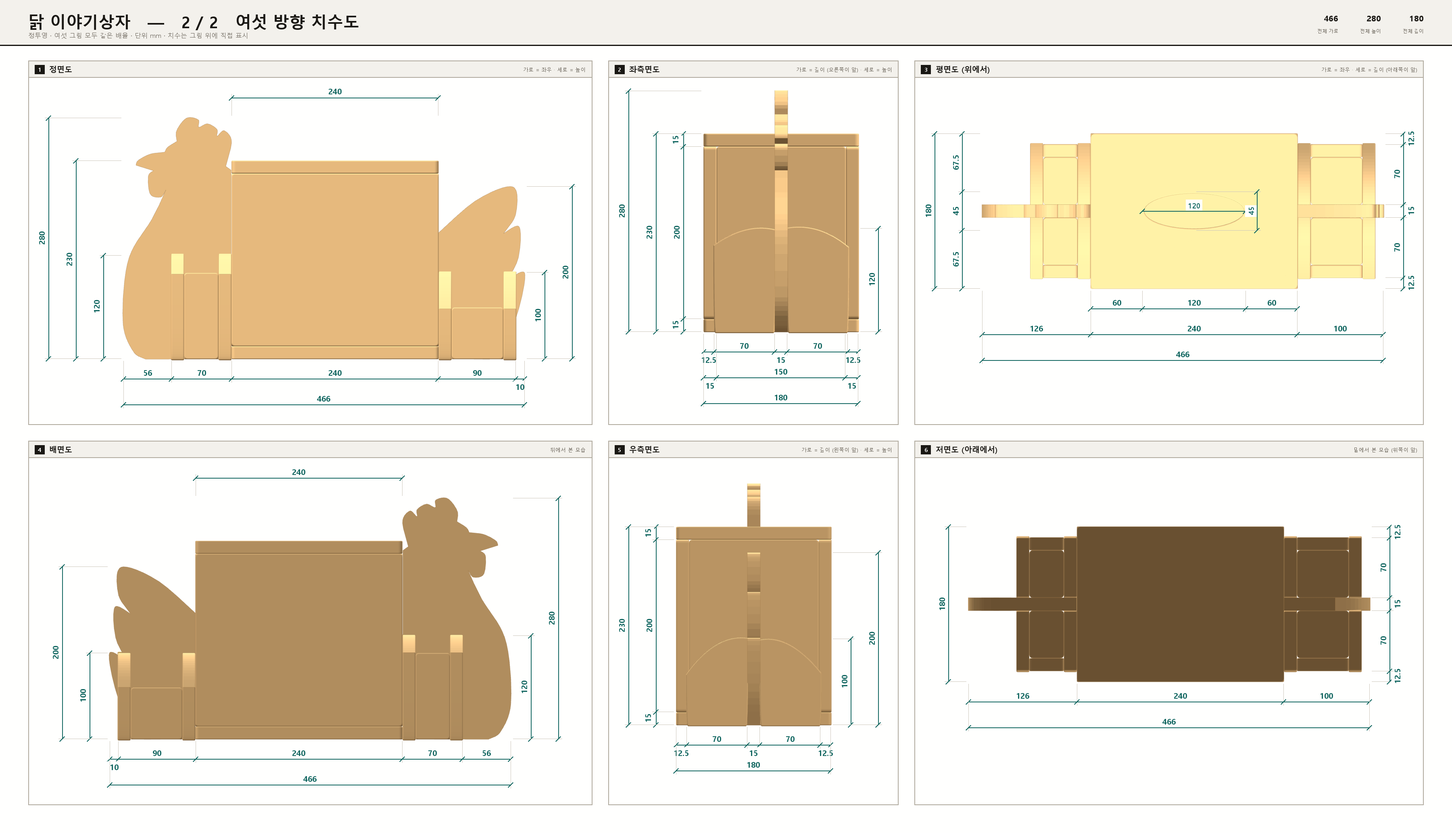
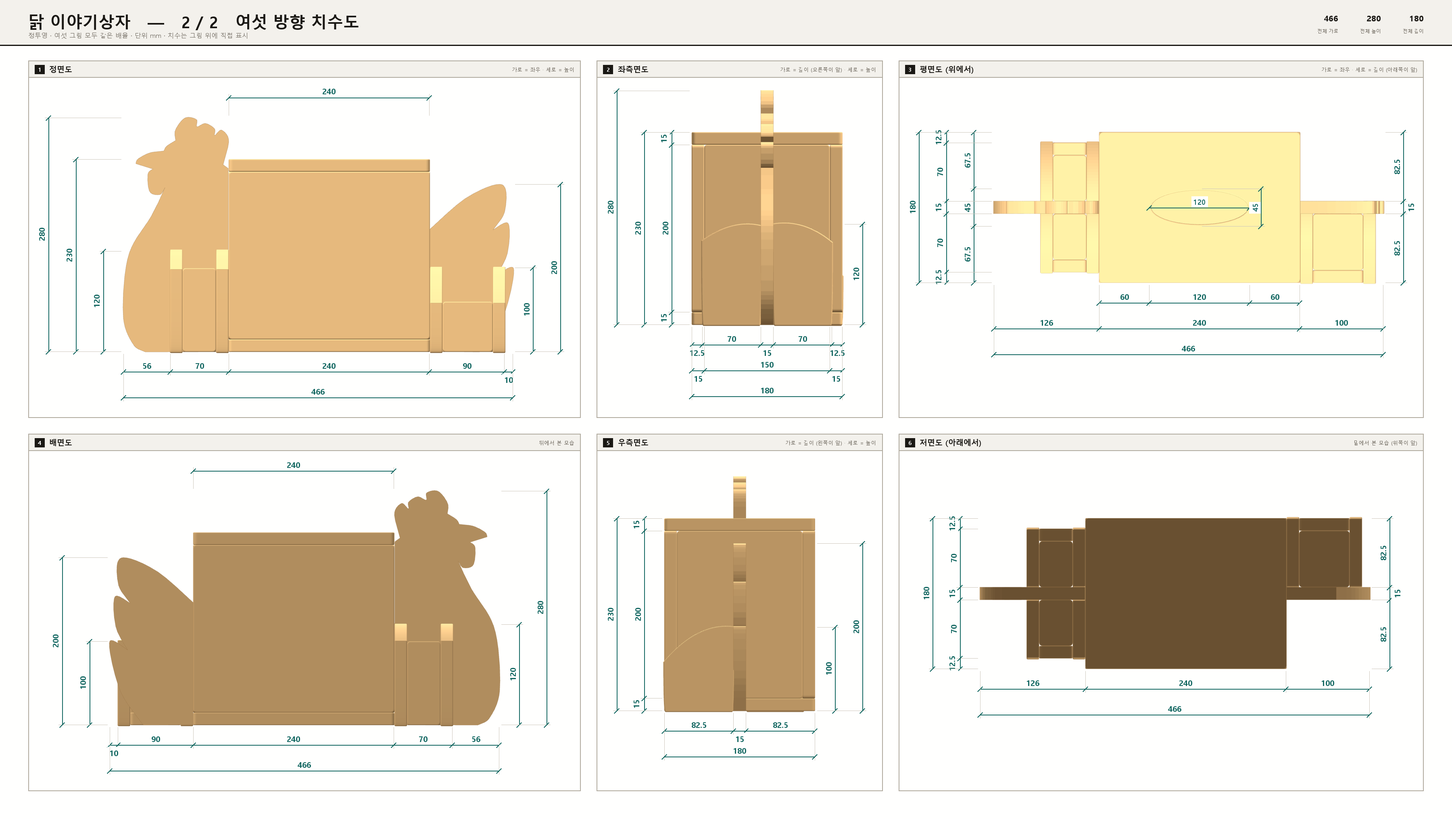
Add files via upload

diff --git a/도면보기.html b/도면보기.html
@@ -124,7 +124,7 @@ var SHEETS = [
   {k:"b1", t:"이야기상자 · 1장 조립도 · 부재도",  f:"도면_B_닭이야기상자.png",         tab:"이야기상자 1장"},
   {k:"b2", t:"이야기상자 · 2장 여섯 방향 치수도", f:"도면_B_닭이야기상자_6면치수.png", tab:"이야기상자 2장"}
 ];
-var DIM_DATA = {"a1":{"w":3600,"h":2398,"nums":[{"x":1716.0,"y":508.1,"r":0,"fs":17,"bw":40,"bh":24,"a":300.0,"b":0},{"x":1356.1,"y":384.0,"r":-90,"fs":17,"bw":27,"bh":38,"a":130.0,"b":-2},{"x":2472.0,"y":508.1,"r":0,"fs":17,"bw":40,"bh":24,"a":300.0,"b":0},{"x":2112.1,"y":384.0,"r":-90,"fs":17,"bw":27,"bh":38,"a":130.0,"b":-2},{"x":3020.0,"y":705.7,"r":0,"fs":17,"bw":40,"bh":24,"a":130.0,"b":-2},{"x":2868.1,"y":482.8,"r":-90,"fs":17,"bw":27,"bh":38,"a":225.0,"b":-2},{"x":1684.8,"y":1105.7,"r":0,"fs":17,"bw":40,"bh":24,"a":300.0,"b":-2},{"x":1356.1,"y":981.6,"r":-90,"fs":17,"bw":27,"bh":38,"a":130.0,"b":-2},{"x":2409.6,"y":1365.7,"r":0,"fs":17,"bw":40,"bh":24,"a":300.0,"b":0},{"x":2049.7,"y":1111.6,"r":-90,"fs":17,"bw":27,"bh":38,"a":225.0,"b":0},{"x":3165.6,"y":1144.1,"r":0,"fs":16,"bw":37,"bh":23,"a":300.0,"b":-2},{"x":2905.7,"y":1220.8,"r":-90,"fs":16,"bw":26,"bh":26,"a":112.5,"b":-1.5},{"x":3165.6,"y":925.7,"r":0,"fs":16,"bw":37,"bh":23,"a":300.0,"b":-2},{"x":2905.7,"y":1002.4,"r":-90,"fs":16,"bw":26,"bh":26,"a":112.5,"b":-1.5},{"x":2869.2,"y":1396.9,"r":0,"fs":17,"bw":30,"bh":24,"a":0.0,"b":1},{"x":3165.6,"y":1365.7,"r":0,"fs":17,"bw":40,"bh":24,"a":300.0,"b":-2},{"x":3462.0,"y":1396.9,"r":0,"fs":17,"bw":30,"bh":24,"a":0.0,"b":1},{"x":2802.3,"y":1330.0,"r":-90,"fs":17,"bw":27,"bh":28,"a":0.0,"b":1},{"x":2805.7,"y":1220.8,"r":-90,"fs":17,"bw":27,"bh":28,"a":112.5,"b":-1.5},{"x":2802.3,"y":1111.6,"r":-90,"fs":17,"bw":27,"bh":28,"a":0.0,"b":1.0},{"x":2805.7,"y":1002.4,"r":-90,"fs":17,"bw":27,"bh":28,"a":112.5,"b":-1.5},{"x":2802.3,"y":893.2,"r":-90,"fs":17,"bw":27,"bh":28,"a":0.0,"b":1.0},{"x":1680.6,"y":1802.5,"r":0,"fs":17,"bw":40,"bh":24,"a":296.0,"b":-2},{"x":1356.1,"y":1693.0,"r":-90,"fs":17,"bw":27,"bh":28,"a":108.5,"b":-1.5},{"x":2365.9,"y":1790.1,"r":0,"fs":17,"bw":40,"bh":24,"a":296.0,"b":-2},{"x":2041.3,"y":1686.8,"r":-90,"fs":17,"bw":27,"bh":28,"a":110.0,"b":-2},{"x":2857.8,"y":1771.3,"r":0,"fs":17,"bw":30,"bh":24,"a":110.0,"b":-2},{"x":2726.6,"y":1677.4,"r":-90,"fs":17,"bw":27,"bh":28,"a":108.5,"b":-2.5},{"x":1649.4,"y":2142.2,"r":0,"fs":17,"bw":40,"bh":24,"a":296.0,"b":-4},{"x":1356.1,"y":2048.3,"r":-90,"fs":17,"bw":27,"bh":28,"a":108.5,"b":-2.5},{"x":2089.3,"y":2027.8,"r":0,"fs":17,"bw":30,"bh":24,"a":60.0,"b":0},{"x":1975.5,"y":1991.1,"r":-90,"fs":17,"bw":27,"bh":28,"a":16.0,"b":0}],"texts":[{"x":70,"y":84,"fs":16,"an":"start","bg":"#F3F1EC","bw":775,"bh":24,"col":"ink2","dec":2,"tpl":"집성목 {T}T · 단위 mm · 부재 18 장 · 나무 쓰는 넓이 약 {0} m²   (집성목 한 판 2440 × 1220 = 2.98 m²)","v":[[0.542,-0.009]]},{"x":1356,"y":802,"fs":14,"an":"start","bw":156,"bh":21,"col":"ink2","tpl":"{0} × {1} × {T}T   1개","v":[[300.0,0],[130.0,-2]]},{"x":2112,"y":802,"fs":14,"an":"start","bw":156,"bh":21,"col":"ink2","tpl":"{0} × {1} × {T}T   1개","v":[[300.0,0],[130.0,-2]]},{"x":2868,"y":802,"fs":14,"an":"start","bw":156,"bh":21,"col":"ink2","tpl":"{0} × {1} × {T}T   2개","v":[[130.0,-2],[225.0,-2]]},{"x":1356,"y":1462,"fs":14,"an":"start","bw":156,"bh":21,"col":"ink2","tpl":"{0} × {1} × {T}T   1개","v":[[300.0,-2],[130.0,-2]]},{"x":2050,"y":1462,"fs":14,"an":"start","bw":156,"bh":21,"col":"ink2","tpl":"{0} × {1} × {T}T   1개","v":[[300.0,0],[225.0,0]]},{"x":2806,"y":1462,"fs":14,"an":"start","bw":156,"bh":21,"col":"ink2","tpl":"{0} × {1} × {T}T   1개","v":[[300.0,0],[225.0,0]]},{"x":1356,"y":1898,"fs":14,"an":"start","bw":148,"bh":21,"col":"ink2","tpl":"{0} × {1} × {T}T   2개","v":[[296.0,-2],[108.5,-1.5]]},{"x":2041,"y":1898,"fs":14,"an":"start","bw":148,"bh":21,"col":"ink2","tpl":"{0} × {1} × {T}T   2개","v":[[296.0,-2],[110.0,-2]]},{"x":2727,"y":1898,"fs":14,"an":"start","bw":140,"bh":21,"col":"ink2","tpl":"{0} × {1} × {T}T   4개","v":[[110.0,-2],[108.5,-2.5]]},{"x":1356,"y":2238,"fs":14,"an":"start","bw":148,"bh":21,"col":"ink2","tpl":"{0} × {1} × {T}T   2개","v":[[296.0,-4],[108.5,-2.5]]},{"x":1979,"y":2238,"fs":14,"an":"start","bw":140,"bh":21,"col":"ink2","tpl":"{0} × {1} × {T}T   1개","v":[[60.0,0],[16.0,0]]}]},"a2":{"w":3600,"h":2394,"nums":[{"x":770.8,"y":663.4,"r":0,"fs":18,"bw":40,"bh":26,"a":300.0,"b":-2.0},{"x":310.5,"y":808.0,"r":-90,"fs":18,"bw":28,"bh":28,"a":112.5,"b":-1.5},{"x":770.8,"y":290.5,"r":0,"fs":18,"bw":40,"bh":26,"a":300.0,"b":-2.0},{"x":310.5,"y":435.1,"r":-90,"fs":18,"bw":28,"bh":28,"a":112.5,"b":-1.5},{"x":264.6,"y":1055.5,"r":0,"fs":19,"bw":32,"bh":27,"a":0.0,"b":1.0},{"x":770.8,"y":1055.5,"r":0,"fs":19,"bw":43,"bh":27,"a":300.0,"b":-2.0},{"x":1276.9,"y":1055.5,"r":0,"fs":19,"bw":32,"bh":27,"a":0.0,"b":1.0},{"x":451.1,"y":1119.5,"r":0,"fs":19,"bw":43,"bh":27,"a":120.0,"b":0.0},{"x":770.8,"y":1119.5,"r":0,"fs":19,"bw":32,"bh":27,"a":60.0,"b":0.0},{"x":1090.4,"y":1119.5,"r":0,"fs":19,"bw":43,"bh":27,"a":120.0,"b":0.0},{"x":770.8,"y":1183.5,"r":0,"fs":19,"bw":43,"bh":27,"a":300.0,"b":0.0},{"x":172.4,"y":994.5,"r":-90,"fs":19,"bw":29,"bh":30,"a":0.0,"b":1.0},{"x":172.4,"y":808.0,"r":-90,"fs":19,"bw":29,"bh":30,"a":112.5,"b":-1.5},{"x":172.4,"y":621.6,"r":-90,"fs":19,"bw":29,"bh":30,"a":0.0,"b":1.0},{"x":172.4,"y":435.1,"r":-90,"fs":19,"bw":29,"bh":30,"a":112.5,"b":-1.5},{"x":172.4,"y":248.6,"r":-90,"fs":19,"bw":29,"bh":30,"a":0.0,"b":1.0},{"x":104.4,"y":621.6,"r":-90,"fs":19,"bw":29,"bh":41,"a":225.0,"b":0.0},{"x":1337.9,"y":928.8,"r":-90,"fs":19,"bw":29,"bh":30,"a":48.25,"b":0.25},{"x":1337.9,"y":808.0,"r":-90,"fs":19,"bw":29,"bh":30,"a":16.0,"b":0.0},{"x":1638.1,"y":1055.5,"r":0,"fs":19,"bw":32,"bh":27,"a":0.0,"b":1.0},{"x":1842.4,"y":1055.5,"r":0,"fs":19,"bw":43,"bh":27,"a":130.0,"b":-2.0},{"x":2046.6,"y":1055.5,"r":0,"fs":19,"bw":32,"bh":27,"a":0.0,"b":1.0},{"x":1842.4,"y":1119.5,"r":0,"fs":19,"bw":43,"bh":27,"a":130.0,"b":0.0},{"x":1869.0,"y":1183.5,"r":0,"fs":19,"bw":43,"bh":27,"a":130.0,"b":1.0},{"x":1545.9,"y":994.5,"r":-90,"fs":19,"bw":29,"bh":30,"a":0.0,"b":1.0},{"x":1545.9,"y":808.0,"r":-90,"fs":19,"bw":29,"bh":30,"a":112.5,"b":-1.5},{"x":1545.9,"y":621.6,"r":-90,"fs":19,"bw":29,"bh":30,"a":0.0,"b":1.0},{"x":1545.9,"y":435.1,"r":-90,"fs":19,"bw":29,"bh":30,"a":112.5,"b":-1.5},{"x":1545.9,"y":248.6,"r":-90,"fs":19,"bw":29,"bh":30,"a":0.0,"b":1.0},{"x":1477.9,"y":621.6,"r":-90,"fs":19,"bw":29,"bh":41,"a":225.0,"b":0.0},{"x":2160.9,"y":928.8,"r":-90,"fs":19,"bw":29,"bh":30,"a":48.25,"b":0.25},{"x":2160.9,"y":808.0,"r":-90,"fs":19,"bw":29,"bh":30,"a":16.0,"b":0.0},{"x":2647.6,"y":945.5,"r":0,"fs":19,"bw":43,"bh":27,"a":120.0,"b":0.0},{"x":2967.2,"y":945.5,"r":0,"fs":19,"bw":32,"bh":27,"a":60.0,"b":0.0},{"x":3286.9,"y":945.5,"r":0,"fs":19,"bw":43,"bh":27,"a":120.0,"b":0.0},{"x":2967.2,"y":1009.5,"r":0,"fs":19,"bw":43,"bh":27,"a":300.0,"b":0.0},{"x":2368.9,"y":422.7,"r":-90,"fs":19,"bw":29,"bh":30,"a":0.0,"b":1.0},{"x":2368.9,"y":626.9,"r":-90,"fs":19,"bw":29,"bh":41,"a":130.0,"b":-2.0},{"x":2368.9,"y":831.1,"r":-90,"fs":19,"bw":29,"bh":30,"a":0.0,"b":1.0},{"x":2300.9,"y":653.6,"r":-90,"fs":19,"bw":29,"bh":41,"a":130.0,"b":1.0},{"x":771.8,"y":2226.7,"r":0,"fs":19,"bw":43,"bh":27,"a":300.0,"b":0.0},{"x":173.4,"y":1792.7,"r":-90,"fs":19,"bw":29,"bh":41,"a":225.0,"b":0.0},{"x":2134.9,"y":2194.7,"r":0,"fs":19,"bw":32,"bh":27,"a":0.0,"b":1.0},{"x":1930.6,"y":2194.7,"r":0,"fs":19,"bw":43,"bh":27,"a":130.0,"b":-2.0},{"x":1726.4,"y":2194.7,"r":0,"fs":19,"bw":32,"bh":27,"a":0.0,"b":1.0},{"x":1904.0,"y":2258.7,"r":0,"fs":19,"bw":43,"bh":27,"a":130.0,"b":1.0},{"x":1580.9,"y":2133.6,"r":-90,"fs":19,"bw":29,"bh":30,"a":0.0,"b":1.0},{"x":1580.9,"y":1947.2,"r":-90,"fs":19,"bw":29,"bh":30,"a":112.5,"b":-1.5},{"x":1580.9,"y":1760.7,"r":-90,"fs":19,"bw":29,"bh":30,"a":0.0,"b":1.0},{"x":1580.9,"y":1574.2,"r":-90,"fs":19,"bw":29,"bh":30,"a":112.5,"b":-1.5},{"x":1580.9,"y":1387.8,"r":-90,"fs":19,"bw":29,"bh":30,"a":0.0,"b":1.0},{"x":1512.9,"y":1760.7,"r":-90,"fs":19,"bw":29,"bh":41,"a":225.0,"b":0.0},{"x":2967.2,"y":2084.6,"r":0,"fs":19,"bw":43,"bh":27,"a":300.0,"b":0.0},{"x":2368.9,"y":2023.6,"r":-90,"fs":19,"bw":29,"bh":30,"a":0.0,"b":1.0},{"x":2368.9,"y":1819.3,"r":-90,"fs":19,"bw":29,"bh":41,"a":130.0,"b":-2.0},{"x":2368.9,"y":1615.1,"r":-90,"fs":19,"bw":29,"bh":30,"a":0.0,"b":1.0},{"x":2300.9,"y":1819.3,"r":-90,"fs":19,"bw":29,"bh":41,"a":130.0,"b":0.0}],"texts":[]},"b1":{"w":3600,"h":2019,"nums":[{"x":1613.6,"y":614.5,"r":0,"fs":17,"bw":40,"bh":24,"a":240.0,"b":0},{"x":1356.1,"y":437.2,"r":-90,"fs":17,"bw":27,"bh":38,"a":180.0,"b":0},{"x":2164.9,"y":649.5,"r":0,"fs":17,"bw":40,"bh":24,"a":240.0,"b":0},{"x":1907.3,"y":454.7,"r":-90,"fs":17,"bw":27,"bh":38,"a":230.0,"b":-2},{"x":1613.6,"y":1190.9,"r":0,"fs":17,"bw":40,"bh":24,"a":240.0,"b":0},{"x":1356.1,"y":996.1,"r":-90,"fs":17,"bw":27,"bh":38,"a":230.0,"b":-2},{"x":2086.3,"y":1190.9,"r":0,"fs":17,"bw":40,"bh":24,"a":180.0,"b":-2},{"x":1907.3,"y":996.1,"r":-90,"fs":17,"bw":27,"bh":38,"a":230.0,"b":-2},{"x":1613.6,"y":1572.9,"r":0,"fs":16,"bw":37,"bh":23,"a":120.0,"b":0.0},{"x":1733.3,"y":1586.0,"r":-90,"fs":16,"bw":26,"bh":26,"a":45.0,"b":0.0},{"x":1456.4,"y":1763.3,"r":0,"fs":17,"bw":30,"bh":24,"a":60.0,"b":0.0},{"x":1613.6,"y":1763.3,"r":0,"fs":17,"bw":40,"bh":24,"a":120.0,"b":0.0},{"x":1770.9,"y":1763.3,"r":0,"fs":17,"bw":30,"bh":24,"a":60.0,"b":0.0},{"x":1356.1,"y":1684.3,"r":-90,"fs":17,"bw":27,"bh":42,"a":67.5,"b":0.0},{"x":1356.1,"y":1586.0,"r":-90,"fs":17,"bw":27,"bh":28,"a":45.0,"b":0.0},{"x":1356.1,"y":1487.8,"r":-90,"fs":17,"bw":27,"bh":42,"a":67.5,"b":0.0},{"x":2133.5,"y":1541.5,"r":0,"fs":16,"bw":37,"bh":23,"a":120.0,"b":0.0},{"x":2253.2,"y":1554.6,"r":-90,"fs":16,"bw":26,"bh":26,"a":45.0,"b":0.0},{"x":1992.0,"y":1700.4,"r":0,"fs":17,"bw":30,"bh":24,"a":57.0,"b":-1.0},{"x":2133.5,"y":1700.4,"r":0,"fs":17,"bw":40,"bh":24,"a":120.0,"b":0.0},{"x":2275.0,"y":1700.4,"r":0,"fs":17,"bw":30,"bh":24,"a":57.0,"b":-1.0},{"x":1907.3,"y":1637.1,"r":-90,"fs":17,"bw":27,"bh":42,"a":64.5,"b":-1.0},{"x":1907.3,"y":1554.6,"r":-90,"fs":17,"bw":27,"bh":28,"a":45.0,"b":0.0},{"x":1907.3,"y":1472.0,"r":-90,"fs":17,"bw":27,"bh":42,"a":64.5,"b":-1.0},{"x":2568.1,"y":509.7,"r":0,"fs":17,"bw":30,"bh":24,"a":70.0,"b":0},{"x":2459.1,"y":384.8,"r":-90,"fs":17,"bw":27,"bh":38,"a":120.0,"b":0},{"x":2649.3,"y":402.3,"r":-90,"fs":17,"bw":27,"bh":38,"a":100.0,"b":0},{"x":2796.2,"y":474.8,"r":0,"fs":17,"bw":30,"bh":24,"a":40.0,"b":0},{"x":2713.3,"y":367.3,"r":-90,"fs":17,"bw":27,"bh":38,"a":100.0,"b":0},{"x":2998.1,"y":396.1,"r":0,"fs":17,"bw":30,"bh":24,"a":40.0,"b":0},{"x":2915.2,"y":328.0,"r":-90,"fs":17,"bw":27,"bh":28,"a":70.0,"b":-1},{"x":2568.1,"y":942.4,"r":0,"fs":17,"bw":30,"bh":24,"a":70.0,"b":0},{"x":2459.1,"y":835.0,"r":-90,"fs":17,"bw":27,"bh":38,"a":100.0,"b":0},{"x":2649.3,"y":869.9,"r":-90,"fs":17,"bw":27,"bh":28,"a":60.0,"b":0},{"x":2813.7,"y":872.5,"r":0,"fs":17,"bw":30,"bh":24,"a":60.0,"b":0},{"x":2713.3,"y":800.0,"r":-90,"fs":17,"bw":27,"bh":28,"a":60.0,"b":0},{"x":3050.5,"y":863.8,"r":0,"fs":17,"bw":30,"bh":24,"a":60.0,"b":0},{"x":2950.2,"y":795.7,"r":-90,"fs":17,"bw":27,"bh":28,"a":70.0,"b":-1},{"x":2617.1,"y":1689.6,"r":0,"fs":17,"bw":40,"bh":24,"a":126.0,"b":0},{"x":2459.1,"y":1424.9,"r":-90,"fs":17,"bw":27,"bh":38,"a":280.0,"b":0},{"x":2946.5,"y":1549.8,"r":0,"fs":17,"bw":40,"bh":24,"a":100.0,"b":0},{"x":2811.2,"y":1355.0,"r":-90,"fs":17,"bw":27,"bh":38,"a":200.0,"b":0}],"texts":[{"x":70,"y":84,"fs":16,"an":"start","bg":"#F3F1EC","bw":775,"bh":24,"col":"ink2","dec":2,"tpl":"집성목 {T}T · 단위 mm · 부재 25 장 · 나무 쓰는 넓이 약 {0} m²   (집성목 한 판 2440 × 1220 = 2.98 m²)","v":[[0.46,-0.003]]},{"x":1356,"y":745,"fs":14,"an":"start","bw":156,"bh":21,"col":"ink2","tpl":"{0} × {1} × {T}T   1개","v":[[240.0,0],[180.0,0]]},{"x":1907,"y":745,"fs":14,"an":"start","bw":156,"bh":21,"col":"ink2","tpl":"{0} × {1} × {T}T   1개","v":[[240.0,0],[230.0,-2]]},{"x":1356,"y":1287,"fs":14,"an":"start","bw":156,"bh":21,"col":"ink2","tpl":"{0} × {1} × {T}T   1개","v":[[240.0,0],[230.0,-2]]},{"x":1907,"y":1287,"fs":14,"an":"start","bw":156,"bh":21,"col":"ink2","tpl":"{0} × {1} × {T}T   2개","v":[[180.0,-2],[230.0,-2]]},{"x":1356,"y":1859,"fs":14,"an":"start","bw":156,"bh":21,"col":"ink2","tpl":"{0} × {1} × {T}T   1개","v":[[240.0,0],[180.0,0]]},{"x":1907,"y":1859,"fs":14,"an":"start","bw":156,"bh":21,"col":"ink2","tpl":"{0} × {1} × {T}T   1개","v":[[234.0,-2],[174.0,-2]]},{"x":2459,"y":606,"fs":14,"an":"start","bw":148,"bh":21,"col":"ink2","tpl":"{0} × {1} × {T}T   4개","v":[[70.0,0],[120.0,0]]},{"x":2713,"y":606,"fs":14,"an":"start","bw":148,"bh":21,"col":"ink2","tpl":"{0} × {1} × {T}T   2개","v":[[40.0,0],[100.0,0]]},{"x":2915,"y":606,"fs":14,"an":"start","bw":140,"bh":21,"col":"ink2","tpl":"{0} × {1} × {T}T   2개","v":[[40.0,0],[70.0,-1]]},{"x":2459,"y":1038,"fs":14,"an":"start","bw":148,"bh":21,"col":"ink2","tpl":"{0} × {1} × {T}T   4개","v":[[70.0,0],[100.0,0]]},{"x":2713,"y":1038,"fs":14,"an":"start","bw":140,"bh":21,"col":"ink2","tpl":"{0} × {1} × {T}T   2개","v":[[60.0,0],[60.0,0]]},{"x":2950,"y":1038,"fs":14,"an":"start","bw":140,"bh":21,"col":"ink2","tpl":"{0} × {1} × {T}T   2개","v":[[60.0,0],[70.0,-1]]},{"x":2459,"y":1785,"fs":14,"an":"start","bw":156,"bh":21,"col":"ink2","tpl":"{0} × {1} × {T}T   1개","v":[[126.0,0],[280.0,0]]},{"x":2811,"y":1785,"fs":14,"an":"start","bw":156,"bh":21,"col":"ink2","tpl":"{0} × {1} × {T}T   1개","v":[[100.0,0],[200.0,0]]}]},"b2":{"w":3600,"h":2066,"nums":[{"x":365.7,"y":923.7,"r":0,"fs":19,"bw":32,"bh":27,"a":86.0,"b":-2.0},{"x":500.1,"y":923.7,"r":0,"fs":19,"bw":32,"bh":27,"a":40.0,"b":2.0},{"x":830.7,"y":923.7,"r":0,"fs":19,"bw":43,"bh":27,"a":240.0,"b":0.0},{"x":1182.7,"y":923.7,"r":0,"fs":19,"bw":32,"bh":27,"a":60.0,"b":2.0},{"x":1289.4,"y":958.6,"r":0,"fs":19,"bw":32,"bh":27,"a":40.0,"b":-2.0},{"x":803.0,"y":987.7,"r":0,"fs":19,"bw":43,"bh":27,"a":466.0,"b":0.0},{"x":830.7,"y":226.4,"r":0,"fs":19,"bw":43,"bh":27,"a":240.0,"b":0.0},{"x":240.4,"y":761.3,"r":-90,"fs":19,"bw":29,"bh":41,"a":120.0,"b":0},{"x":172.4,"y":644.0,"r":-90,"fs":19,"bw":29,"bh":41,"a":230.0,"b":0.0},{"x":104.4,"y":590.6,"r":-90,"fs":19,"bw":29,"bh":41,"a":280.0,"b":0},{"x":1334.4,"y":782.6,"r":-90,"fs":19,"bw":29,"bh":41,"a":100.0,"b":0},{"x":1402.4,"y":676.0,"r":-90,"fs":19,"bw":29,"bh":41,"a":200.0,"b":0},{"x":1757.4,"y":891.6,"r":0,"fs":19,"bw":48,"bh":27,"a":20.0,"b":-0.5},{"x":1845.3,"y":856.7,"r":0,"fs":19,"bw":32,"bh":27,"a":70.0,"b":0.0},{"x":1936.0,"y":891.6,"r":0,"fs":19,"bw":32,"bh":27,"a":0.0,"b":1.0},{"x":2026.7,"y":856.7,"r":0,"fs":19,"bw":32,"bh":27,"a":70.0,"b":0.0},{"x":2114.6,"y":891.6,"r":0,"fs":19,"bw":48,"bh":27,"a":20.0,"b":-0.5},{"x":1760.0,"y":955.6,"r":0,"fs":19,"bw":32,"bh":27,"a":0.0,"b":1.0},{"x":1936.0,"y":920.7,"r":0,"fs":19,"bw":43,"bh":27,"a":180.0,"b":-2.0},{"x":2112.0,"y":955.6,"r":0,"fs":19,"bw":32,"bh":27,"a":0.0,"b":1.0},{"x":1936.0,"y":984.7,"r":0,"fs":19,"bw":43,"bh":27,"a":180.0,"b":0.0},{"x":1674.6,"y":806.3,"r":-90,"fs":19,"bw":29,"bh":30,"a":0.0,"b":1.0},{"x":1678.4,"y":577.0,"r":-90,"fs":19,"bw":29,"bh":41,"a":230.0,"b":-2.0},{"x":1674.6,"y":347.7,"r":-90,"fs":19,"bw":29,"bh":30,"a":0.0,"b":1.0},{"x":1610.4,"y":577.0,"r":-90,"fs":19,"bw":29,"bh":41,"a":230.0,"b":0.0},{"x":1542.4,"y":523.6,"r":-90,"fs":19,"bw":29,"bh":41,"a":280.0,"b":0},{"x":2162.4,"y":694.3,"r":-90,"fs":19,"bw":29,"bh":41,"a":120.0,"b":0},{"x":2960.7,"y":508.9,"r":0,"fs":18,"bw":40,"bh":26,"a":120.0,"b":0.0},{"x":3101.9,"y":523.6,"r":-90,"fs":18,"bw":28,"bh":28,"a":45.0,"b":0.0},{"x":2768.7,"y":750.0,"r":0,"fs":19,"bw":32,"bh":27,"a":60.0,"b":0.0},{"x":2960.7,"y":750.0,"r":0,"fs":19,"bw":43,"bh":27,"a":120.0,"b":0.0},{"x":3152.7,"y":750.0,"r":0,"fs":19,"bw":32,"bh":27,"a":60.0,"b":0.0},{"x":2570.4,"y":814.0,"r":0,"fs":19,"bw":43,"bh":27,"a":126.0,"b":0},{"x":2960.7,"y":814.0,"r":0,"fs":19,"bw":43,"bh":27,"a":240.0,"b":0.0},{"x":3323.3,"y":814.0,"r":0,"fs":19,"bw":43,"bh":27,"a":100.0,"b":0.0},{"x":2933.0,"y":878.0,"r":0,"fs":19,"bw":43,"bh":27,"a":466.0,"b":0.0},{"x":2370.4,"y":403.6,"r":-90,"fs":19,"bw":29,"bh":46,"a":67.5,"b":0.0},{"x":2370.4,"y":523.6,"r":-90,"fs":19,"bw":29,"bh":30,"a":45.0,"b":0.0},{"x":2370.4,"y":643.6,"r":-90,"fs":19,"bw":29,"bh":46,"a":67.5,"b":0.0},{"x":2302.4,"y":523.6,"r":-90,"fs":19,"bw":29,"bh":41,"a":180.0,"b":0.0},{"x":3499.4,"y":345.0,"r":-90,"fs":19,"bw":29,"bh":46,"a":20.0,"b":-0.5},{"x":3464.4,"y":433.0,"r":-90,"fs":19,"bw":29,"bh":30,"a":70.0,"b":0.0},{"x":3499.4,"y":523.6,"r":-90,"fs":19,"bw":29,"bh":30,"a":0.0,"b":1.0},{"x":3464.4,"y":614.3,"r":-90,"fs":19,"bw":29,"bh":30,"a":70.0,"b":0.0},{"x":3499.4,"y":702.3,"r":-90,"fs":19,"bw":29,"bh":46,"a":20.0,"b":-0.5},{"x":1206.3,"y":1867.0,"r":0,"fs":19,"bw":32,"bh":27,"a":86.0,"b":-2.0},{"x":1071.9,"y":1867.0,"r":0,"fs":19,"bw":32,"bh":27,"a":40.0,"b":2.0},{"x":741.3,"y":1867.0,"r":0,"fs":19,"bw":43,"bh":27,"a":240.0,"b":0.0},{"x":389.3,"y":1867.0,"r":0,"fs":19,"bw":32,"bh":27,"a":60.0,"b":2.0},{"x":282.7,"y":1901.9,"r":0,"fs":19,"bw":32,"bh":27,"a":40.0,"b":-2.0},{"x":769.0,"y":1931.0,"r":0,"fs":19,"bw":43,"bh":27,"a":466.0,"b":0.0},{"x":741.3,"y":1169.7,"r":0,"fs":19,"bw":43,"bh":27,"a":240.0,"b":0.0},{"x":206.4,"y":1725.9,"r":-90,"fs":19,"bw":29,"bh":41,"a":100.0,"b":0},{"x":138.4,"y":1619.2,"r":-90,"fs":19,"bw":29,"bh":41,"a":200.0,"b":0},{"x":1300.4,"y":1704.5,"r":-90,"fs":19,"bw":29,"bh":41,"a":120.0,"b":0},{"x":1368.4,"y":1533.9,"r":-90,"fs":19,"bw":29,"bh":41,"a":280.0,"b":0},{"x":2046.6,"y":1866.9,"r":0,"fs":19,"bw":48,"bh":27,"a":20.0,"b":-0.5},{"x":1958.7,"y":1832.0,"r":0,"fs":19,"bw":32,"bh":27,"a":70.0,"b":0.0},{"x":1868.0,"y":1866.9,"r":0,"fs":19,"bw":32,"bh":27,"a":0.0,"b":1.0},{"x":1777.3,"y":1832.0,"r":0,"fs":19,"bw":32,"bh":27,"a":70.0,"b":0.0},{"x":1689.4,"y":1866.9,"r":0,"fs":19,"bw":48,"bh":27,"a":20.0,"b":-0.5},{"x":1868.0,"y":1896.0,"r":0,"fs":19,"bw":43,"bh":27,"a":180.0,"b":0.0},{"x":1606.6,"y":1781.5,"r":-90,"fs":19,"bw":29,"bh":30,"a":0.0,"b":1.0},{"x":1610.4,"y":1552.2,"r":-90,"fs":19,"bw":29,"bh":41,"a":230.0,"b":-2.0},{"x":1606.6,"y":1322.9,"r":-90,"fs":19,"bw":29,"bh":30,"a":0.0,"b":1.0},{"x":1542.4,"y":1552.2,"r":-90,"fs":19,"bw":29,"bh":41,"a":230.0,"b":0.0},{"x":2094.4,"y":1690.9,"r":-90,"fs":19,"bw":29,"bh":41,"a":100.0,"b":0},{"x":2162.4,"y":1584.2,"r":-90,"fs":19,"bw":29,"bh":41,"a":200.0,"b":0},{"x":2536.4,"y":1725.3,"r":0,"fs":19,"bw":43,"bh":27,"a":126.0,"b":0},{"x":2926.7,"y":1725.3,"r":0,"fs":19,"bw":43,"bh":27,"a":240.0,"b":0.0},{"x":3289.3,"y":1725.3,"r":0,"fs":19,"bw":43,"bh":27,"a":100.0,"b":0.0},{"x":2899.0,"y":1789.3,"r":0,"fs":19,"bw":43,"bh":27,"a":466.0,"b":0.0},{"x":2336.4,"y":1498.9,"r":-90,"fs":19,"bw":29,"bh":41,"a":180.0,"b":0.0},{"x":3465.4,"y":1677.5,"r":-90,"fs":19,"bw":29,"bh":46,"a":20.0,"b":-0.5},{"x":3430.4,"y":1589.6,"r":-90,"fs":19,"bw":29,"bh":30,"a":70.0,"b":0.0},{"x":3465.4,"y":1498.9,"r":-90,"fs":19,"bw":29,"bh":30,"a":0.0,"b":1.0},{"x":3430.4,"y":1408.2,"r":-90,"fs":19,"bw":29,"bh":30,"a":70.0,"b":0.0},{"x":3465.4,"y":1320.3,"r":-90,"fs":19,"bw":29,"bh":46,"a":20.0,"b":-0.5}],"texts":[]}};
+var DIM_DATA = {"a1":{"w":3600,"h":2398,"nums":[{"x":1716.0,"y":508.1,"r":0,"fs":17,"bw":40,"bh":24,"a":300.0,"b":0},{"x":1356.1,"y":384.0,"r":-90,"fs":17,"bw":27,"bh":38,"a":130.0,"b":-2},{"x":2472.0,"y":508.1,"r":0,"fs":17,"bw":40,"bh":24,"a":300.0,"b":0},{"x":2112.1,"y":384.0,"r":-90,"fs":17,"bw":27,"bh":38,"a":130.0,"b":-2},{"x":3020.0,"y":705.7,"r":0,"fs":17,"bw":40,"bh":24,"a":130.0,"b":-2},{"x":2868.1,"y":482.8,"r":-90,"fs":17,"bw":27,"bh":38,"a":225.0,"b":-2},{"x":1684.8,"y":1105.7,"r":0,"fs":17,"bw":40,"bh":24,"a":300.0,"b":-2},{"x":1356.1,"y":981.6,"r":-90,"fs":17,"bw":27,"bh":38,"a":130.0,"b":-2},{"x":2409.6,"y":1365.7,"r":0,"fs":17,"bw":40,"bh":24,"a":300.0,"b":0},{"x":2049.7,"y":1111.6,"r":-90,"fs":17,"bw":27,"bh":38,"a":225.0,"b":0},{"x":3165.6,"y":1144.1,"r":0,"fs":16,"bw":37,"bh":23,"a":300.0,"b":-2},{"x":2905.7,"y":1220.8,"r":-90,"fs":16,"bw":26,"bh":26,"a":112.5,"b":-1.5},{"x":3165.6,"y":925.7,"r":0,"fs":16,"bw":37,"bh":23,"a":300.0,"b":-2},{"x":2905.7,"y":1002.4,"r":-90,"fs":16,"bw":26,"bh":26,"a":112.5,"b":-1.5},{"x":2869.2,"y":1396.9,"r":0,"fs":17,"bw":30,"bh":24,"a":0.0,"b":1},{"x":3165.6,"y":1365.7,"r":0,"fs":17,"bw":40,"bh":24,"a":300.0,"b":-2},{"x":3462.0,"y":1396.9,"r":0,"fs":17,"bw":30,"bh":24,"a":0.0,"b":1},{"x":2802.3,"y":1330.0,"r":-90,"fs":17,"bw":27,"bh":28,"a":0.0,"b":1},{"x":2805.7,"y":1220.8,"r":-90,"fs":17,"bw":27,"bh":28,"a":112.5,"b":-1.5},{"x":2802.3,"y":1111.6,"r":-90,"fs":17,"bw":27,"bh":28,"a":0.0,"b":1.0},{"x":2805.7,"y":1002.4,"r":-90,"fs":17,"bw":27,"bh":28,"a":112.5,"b":-1.5},{"x":2802.3,"y":893.2,"r":-90,"fs":17,"bw":27,"bh":28,"a":0.0,"b":1.0},{"x":1680.6,"y":1802.5,"r":0,"fs":17,"bw":40,"bh":24,"a":296.0,"b":-2},{"x":1356.1,"y":1693.0,"r":-90,"fs":17,"bw":27,"bh":28,"a":108.5,"b":-1.5},{"x":2365.9,"y":1790.1,"r":0,"fs":17,"bw":40,"bh":24,"a":296.0,"b":-2},{"x":2041.3,"y":1686.8,"r":-90,"fs":17,"bw":27,"bh":28,"a":110.0,"b":-2},{"x":2857.8,"y":1771.3,"r":0,"fs":17,"bw":30,"bh":24,"a":110.0,"b":-2},{"x":2726.6,"y":1677.4,"r":-90,"fs":17,"bw":27,"bh":28,"a":108.5,"b":-2.5},{"x":1649.4,"y":2142.2,"r":0,"fs":17,"bw":40,"bh":24,"a":296.0,"b":-4},{"x":1356.1,"y":2048.3,"r":-90,"fs":17,"bw":27,"bh":28,"a":108.5,"b":-2.5},{"x":2089.3,"y":2027.8,"r":0,"fs":17,"bw":30,"bh":24,"a":60.0,"b":0},{"x":1975.5,"y":1991.1,"r":-90,"fs":17,"bw":27,"bh":28,"a":16.0,"b":0}],"texts":[{"x":70,"y":84,"fs":16,"an":"start","bg":"#F3F1EC","bw":775,"bh":24,"col":"ink2","dec":2,"tpl":"집성목 {T}T · 단위 mm · 부재 18 장 · 나무 쓰는 넓이 약 {0} m²   (집성목 한 판 2440 × 1220 = 2.98 m²)","v":[[0.542,-0.009]]},{"x":1356,"y":802,"fs":14,"an":"start","bw":156,"bh":21,"col":"ink2","tpl":"{0} × {1} × {T}T   1개","v":[[300.0,0],[130.0,-2]]},{"x":2112,"y":802,"fs":14,"an":"start","bw":156,"bh":21,"col":"ink2","tpl":"{0} × {1} × {T}T   1개","v":[[300.0,0],[130.0,-2]]},{"x":2868,"y":802,"fs":14,"an":"start","bw":156,"bh":21,"col":"ink2","tpl":"{0} × {1} × {T}T   2개","v":[[130.0,-2],[225.0,-2]]},{"x":1356,"y":1462,"fs":14,"an":"start","bw":156,"bh":21,"col":"ink2","tpl":"{0} × {1} × {T}T   1개","v":[[300.0,-2],[130.0,-2]]},{"x":2050,"y":1462,"fs":14,"an":"start","bw":156,"bh":21,"col":"ink2","tpl":"{0} × {1} × {T}T   1개","v":[[300.0,0],[225.0,0]]},{"x":2806,"y":1462,"fs":14,"an":"start","bw":156,"bh":21,"col":"ink2","tpl":"{0} × {1} × {T}T   1개","v":[[300.0,0],[225.0,0]]},{"x":1356,"y":1898,"fs":14,"an":"start","bw":148,"bh":21,"col":"ink2","tpl":"{0} × {1} × {T}T   2개","v":[[296.0,-2],[108.5,-1.5]]},{"x":2041,"y":1898,"fs":14,"an":"start","bw":148,"bh":21,"col":"ink2","tpl":"{0} × {1} × {T}T   2개","v":[[296.0,-2],[110.0,-2]]},{"x":2727,"y":1898,"fs":14,"an":"start","bw":140,"bh":21,"col":"ink2","tpl":"{0} × {1} × {T}T   4개","v":[[110.0,-2],[108.5,-2.5]]},{"x":1356,"y":2238,"fs":14,"an":"start","bw":148,"bh":21,"col":"ink2","tpl":"{0} × {1} × {T}T   2개","v":[[296.0,-4],[108.5,-2.5]]},{"x":1979,"y":2238,"fs":14,"an":"start","bw":140,"bh":21,"col":"ink2","tpl":"{0} × {1} × {T}T   1개","v":[[60.0,0],[16.0,0]]}]},"a2":{"w":3600,"h":2394,"nums":[{"x":770.8,"y":663.4,"r":0,"fs":18,"bw":40,"bh":26,"a":300.0,"b":-2.0},{"x":310.5,"y":808.0,"r":-90,"fs":18,"bw":28,"bh":28,"a":112.5,"b":-1.5},{"x":770.8,"y":290.5,"r":0,"fs":18,"bw":40,"bh":26,"a":300.0,"b":-2.0},{"x":310.5,"y":435.1,"r":-90,"fs":18,"bw":28,"bh":28,"a":112.5,"b":-1.5},{"x":264.6,"y":1055.5,"r":0,"fs":19,"bw":32,"bh":27,"a":0.0,"b":1.0},{"x":770.8,"y":1055.5,"r":0,"fs":19,"bw":43,"bh":27,"a":300.0,"b":-2.0},{"x":1276.9,"y":1055.5,"r":0,"fs":19,"bw":32,"bh":27,"a":0.0,"b":1.0},{"x":451.1,"y":1119.5,"r":0,"fs":19,"bw":43,"bh":27,"a":120.0,"b":0.0},{"x":770.8,"y":1119.5,"r":0,"fs":19,"bw":32,"bh":27,"a":60.0,"b":0.0},{"x":1090.4,"y":1119.5,"r":0,"fs":19,"bw":43,"bh":27,"a":120.0,"b":0.0},{"x":770.8,"y":1183.5,"r":0,"fs":19,"bw":43,"bh":27,"a":300.0,"b":0.0},{"x":172.4,"y":994.5,"r":-90,"fs":19,"bw":29,"bh":30,"a":0.0,"b":1.0},{"x":172.4,"y":808.0,"r":-90,"fs":19,"bw":29,"bh":30,"a":112.5,"b":-1.5},{"x":172.4,"y":621.6,"r":-90,"fs":19,"bw":29,"bh":30,"a":0.0,"b":1.0},{"x":172.4,"y":435.1,"r":-90,"fs":19,"bw":29,"bh":30,"a":112.5,"b":-1.5},{"x":172.4,"y":248.6,"r":-90,"fs":19,"bw":29,"bh":30,"a":0.0,"b":1.0},{"x":104.4,"y":621.6,"r":-90,"fs":19,"bw":29,"bh":41,"a":225.0,"b":0.0},{"x":1337.9,"y":928.8,"r":-90,"fs":19,"bw":29,"bh":30,"a":48.25,"b":0.25},{"x":1337.9,"y":808.0,"r":-90,"fs":19,"bw":29,"bh":30,"a":16.0,"b":0.0},{"x":1638.1,"y":1055.5,"r":0,"fs":19,"bw":32,"bh":27,"a":0.0,"b":1.0},{"x":1842.4,"y":1055.5,"r":0,"fs":19,"bw":43,"bh":27,"a":130.0,"b":-2.0},{"x":2046.6,"y":1055.5,"r":0,"fs":19,"bw":32,"bh":27,"a":0.0,"b":1.0},{"x":1842.4,"y":1119.5,"r":0,"fs":19,"bw":43,"bh":27,"a":130.0,"b":0.0},{"x":1869.0,"y":1183.5,"r":0,"fs":19,"bw":43,"bh":27,"a":130.0,"b":1.0},{"x":1545.9,"y":994.5,"r":-90,"fs":19,"bw":29,"bh":30,"a":0.0,"b":1.0},{"x":1545.9,"y":808.0,"r":-90,"fs":19,"bw":29,"bh":30,"a":112.5,"b":-1.5},{"x":1545.9,"y":621.6,"r":-90,"fs":19,"bw":29,"bh":30,"a":0.0,"b":1.0},{"x":1545.9,"y":435.1,"r":-90,"fs":19,"bw":29,"bh":30,"a":112.5,"b":-1.5},{"x":1545.9,"y":248.6,"r":-90,"fs":19,"bw":29,"bh":30,"a":0.0,"b":1.0},{"x":1477.9,"y":621.6,"r":-90,"fs":19,"bw":29,"bh":41,"a":225.0,"b":0.0},{"x":2160.9,"y":928.8,"r":-90,"fs":19,"bw":29,"bh":30,"a":48.25,"b":0.25},{"x":2160.9,"y":808.0,"r":-90,"fs":19,"bw":29,"bh":30,"a":16.0,"b":0.0},{"x":2647.6,"y":945.5,"r":0,"fs":19,"bw":43,"bh":27,"a":120.0,"b":0.0},{"x":2967.2,"y":945.5,"r":0,"fs":19,"bw":32,"bh":27,"a":60.0,"b":0.0},{"x":3286.9,"y":945.5,"r":0,"fs":19,"bw":43,"bh":27,"a":120.0,"b":0.0},{"x":2967.2,"y":1009.5,"r":0,"fs":19,"bw":43,"bh":27,"a":300.0,"b":0.0},{"x":2368.9,"y":422.7,"r":-90,"fs":19,"bw":29,"bh":30,"a":0.0,"b":1.0},{"x":2368.9,"y":626.9,"r":-90,"fs":19,"bw":29,"bh":41,"a":130.0,"b":-2.0},{"x":2368.9,"y":831.1,"r":-90,"fs":19,"bw":29,"bh":30,"a":0.0,"b":1.0},{"x":2300.9,"y":653.6,"r":-90,"fs":19,"bw":29,"bh":41,"a":130.0,"b":1.0},{"x":771.8,"y":2226.7,"r":0,"fs":19,"bw":43,"bh":27,"a":300.0,"b":0.0},{"x":173.4,"y":1792.7,"r":-90,"fs":19,"bw":29,"bh":41,"a":225.0,"b":0.0},{"x":2134.9,"y":2194.7,"r":0,"fs":19,"bw":32,"bh":27,"a":0.0,"b":1.0},{"x":1930.6,"y":2194.7,"r":0,"fs":19,"bw":43,"bh":27,"a":130.0,"b":-2.0},{"x":1726.4,"y":2194.7,"r":0,"fs":19,"bw":32,"bh":27,"a":0.0,"b":1.0},{"x":1904.0,"y":2258.7,"r":0,"fs":19,"bw":43,"bh":27,"a":130.0,"b":1.0},{"x":1580.9,"y":2133.6,"r":-90,"fs":19,"bw":29,"bh":30,"a":0.0,"b":1.0},{"x":1580.9,"y":1947.2,"r":-90,"fs":19,"bw":29,"bh":30,"a":112.5,"b":-1.5},{"x":1580.9,"y":1760.7,"r":-90,"fs":19,"bw":29,"bh":30,"a":0.0,"b":1.0},{"x":1580.9,"y":1574.2,"r":-90,"fs":19,"bw":29,"bh":30,"a":112.5,"b":-1.5},{"x":1580.9,"y":1387.8,"r":-90,"fs":19,"bw":29,"bh":30,"a":0.0,"b":1.0},{"x":1512.9,"y":1760.7,"r":-90,"fs":19,"bw":29,"bh":41,"a":225.0,"b":0.0},{"x":2967.2,"y":2084.6,"r":0,"fs":19,"bw":43,"bh":27,"a":300.0,"b":0.0},{"x":2368.9,"y":2023.6,"r":-90,"fs":19,"bw":29,"bh":30,"a":0.0,"b":1.0},{"x":2368.9,"y":1819.3,"r":-90,"fs":19,"bw":29,"bh":41,"a":130.0,"b":-2.0},{"x":2368.9,"y":1615.1,"r":-90,"fs":19,"bw":29,"bh":30,"a":0.0,"b":1.0},{"x":2300.9,"y":1819.3,"r":-90,"fs":19,"bw":29,"bh":41,"a":130.0,"b":0.0}],"texts":[]},"b1":{"w":3600,"h":2019,"nums":[{"x":1613.6,"y":614.5,"r":0,"fs":17,"bw":40,"bh":24,"a":240.0,"b":0},{"x":1356.1,"y":437.2,"r":-90,"fs":17,"bw":27,"bh":38,"a":180.0,"b":0},{"x":2164.9,"y":649.5,"r":0,"fs":17,"bw":40,"bh":24,"a":240.0,"b":0},{"x":1907.3,"y":454.7,"r":-90,"fs":17,"bw":27,"bh":38,"a":230.0,"b":-2},{"x":1613.6,"y":1190.9,"r":0,"fs":17,"bw":40,"bh":24,"a":240.0,"b":0},{"x":1356.1,"y":996.1,"r":-90,"fs":17,"bw":27,"bh":38,"a":230.0,"b":-2},{"x":2086.3,"y":1190.9,"r":0,"fs":17,"bw":40,"bh":24,"a":180.0,"b":-2},{"x":1907.3,"y":996.1,"r":-90,"fs":17,"bw":27,"bh":38,"a":230.0,"b":-2},{"x":1613.6,"y":1572.9,"r":0,"fs":16,"bw":37,"bh":23,"a":120.0,"b":0.0},{"x":1733.3,"y":1586.0,"r":-90,"fs":16,"bw":26,"bh":26,"a":45.0,"b":0.0},{"x":1456.4,"y":1763.3,"r":0,"fs":17,"bw":30,"bh":24,"a":60.0,"b":0.0},{"x":1613.6,"y":1763.3,"r":0,"fs":17,"bw":40,"bh":24,"a":120.0,"b":0.0},{"x":1770.9,"y":1763.3,"r":0,"fs":17,"bw":30,"bh":24,"a":60.0,"b":0.0},{"x":1356.1,"y":1684.3,"r":-90,"fs":17,"bw":27,"bh":42,"a":67.5,"b":0.0},{"x":1356.1,"y":1586.0,"r":-90,"fs":17,"bw":27,"bh":28,"a":45.0,"b":0.0},{"x":1356.1,"y":1487.8,"r":-90,"fs":17,"bw":27,"bh":42,"a":67.5,"b":0.0},{"x":2133.5,"y":1541.5,"r":0,"fs":16,"bw":37,"bh":23,"a":120.0,"b":0.0},{"x":2253.2,"y":1554.6,"r":-90,"fs":16,"bw":26,"bh":26,"a":45.0,"b":0.0},{"x":1992.0,"y":1700.4,"r":0,"fs":17,"bw":30,"bh":24,"a":57.0,"b":-1.0},{"x":2133.5,"y":1700.4,"r":0,"fs":17,"bw":40,"bh":24,"a":120.0,"b":0.0},{"x":2275.0,"y":1700.4,"r":0,"fs":17,"bw":30,"bh":24,"a":57.0,"b":-1.0},{"x":1907.3,"y":1637.1,"r":-90,"fs":17,"bw":27,"bh":42,"a":64.5,"b":-1.0},{"x":1907.3,"y":1554.6,"r":-90,"fs":17,"bw":27,"bh":28,"a":45.0,"b":0.0},{"x":1907.3,"y":1472.0,"r":-90,"fs":17,"bw":27,"bh":42,"a":64.5,"b":-1.0},{"x":2568.1,"y":509.7,"r":0,"fs":17,"bw":30,"bh":24,"a":70.0,"b":0},{"x":2459.1,"y":384.8,"r":-90,"fs":17,"bw":27,"bh":38,"a":120.0,"b":0},{"x":2649.3,"y":402.3,"r":-90,"fs":17,"bw":27,"bh":38,"a":100.0,"b":0},{"x":2796.2,"y":474.8,"r":0,"fs":17,"bw":30,"bh":24,"a":40.0,"b":0},{"x":2713.3,"y":367.3,"r":-90,"fs":17,"bw":27,"bh":38,"a":100.0,"b":0},{"x":2998.1,"y":396.1,"r":0,"fs":17,"bw":30,"bh":24,"a":40.0,"b":0},{"x":2915.2,"y":328.0,"r":-90,"fs":17,"bw":27,"bh":28,"a":70.0,"b":-1},{"x":2579.1,"y":942.4,"r":0,"fs":17,"bw":44,"bh":24,"a":90.0,"b":-0.5},{"x":2459.1,"y":835.0,"r":-90,"fs":17,"bw":27,"bh":38,"a":100.0,"b":0},{"x":2671.2,"y":869.9,"r":-90,"fs":17,"bw":27,"bh":28,"a":60.0,"b":0},{"x":2835.5,"y":872.5,"r":0,"fs":17,"bw":30,"bh":24,"a":60.0,"b":0},{"x":2735.2,"y":800.0,"r":-90,"fs":17,"bw":27,"bh":28,"a":60.0,"b":0},{"x":3072.4,"y":885.6,"r":0,"fs":17,"bw":30,"bh":24,"a":60.0,"b":0},{"x":2972.0,"y":806.6,"r":-90,"fs":17,"bw":27,"bh":42,"a":90.0,"b":-1.5},{"x":2617.1,"y":1689.6,"r":0,"fs":17,"bw":40,"bh":24,"a":126.0,"b":0},{"x":2459.1,"y":1424.9,"r":-90,"fs":17,"bw":27,"bh":38,"a":280.0,"b":0},{"x":2946.5,"y":1549.8,"r":0,"fs":17,"bw":40,"bh":24,"a":100.0,"b":0},{"x":2811.2,"y":1355.0,"r":-90,"fs":17,"bw":27,"bh":38,"a":200.0,"b":0}],"texts":[{"x":70,"y":84,"fs":16,"an":"start","bg":"#F3F1EC","bw":775,"bh":24,"col":"ink2","dec":2,"tpl":"집성목 {T}T · 단위 mm · 부재 21 장 · 나무 쓰는 넓이 약 {0} m²   (집성목 한 판 2440 × 1220 = 2.98 m²)","v":[[0.442,-0.003]]},{"x":1356,"y":745,"fs":14,"an":"start","bw":156,"bh":21,"col":"ink2","tpl":"{0} × {1} × {T}T   1개","v":[[240.0,0],[180.0,0]]},{"x":1907,"y":745,"fs":14,"an":"start","bw":156,"bh":21,"col":"ink2","tpl":"{0} × {1} × {T}T   1개","v":[[240.0,0],[230.0,-2]]},{"x":1356,"y":1287,"fs":14,"an":"start","bw":156,"bh":21,"col":"ink2","tpl":"{0} × {1} × {T}T   1개","v":[[240.0,0],[230.0,-2]]},{"x":1907,"y":1287,"fs":14,"an":"start","bw":156,"bh":21,"col":"ink2","tpl":"{0} × {1} × {T}T   2개","v":[[180.0,-2],[230.0,-2]]},{"x":1356,"y":1859,"fs":14,"an":"start","bw":156,"bh":21,"col":"ink2","tpl":"{0} × {1} × {T}T   1개","v":[[240.0,0],[180.0,0]]},{"x":1907,"y":1859,"fs":14,"an":"start","bw":156,"bh":21,"col":"ink2","tpl":"{0} × {1} × {T}T   1개","v":[[234.0,-2],[174.0,-2]]},{"x":2459,"y":606,"fs":14,"an":"start","bw":148,"bh":21,"col":"ink2","tpl":"{0} × {1} × {T}T   4개","v":[[70.0,0],[120.0,0]]},{"x":2713,"y":606,"fs":14,"an":"start","bw":148,"bh":21,"col":"ink2","tpl":"{0} × {1} × {T}T   2개","v":[[40.0,0],[100.0,0]]},{"x":2915,"y":606,"fs":14,"an":"start","bw":140,"bh":21,"col":"ink2","tpl":"{0} × {1} × {T}T   2개","v":[[40.0,0],[70.0,-1]]},{"x":2459,"y":1038,"fs":14,"an":"start","bw":159,"bh":21,"col":"ink2","tpl":"{0} × {1} × {T}T   2개","v":[[90.0,-0.5],[100.0,0]]},{"x":2735,"y":1038,"fs":14,"an":"start","bw":140,"bh":21,"col":"ink2","tpl":"{0} × {1} × {T}T   1개","v":[[60.0,0],[60.0,0]]},{"x":2972,"y":1038,"fs":14,"an":"start","bw":151,"bh":21,"col":"ink2","tpl":"{0} × {1} × {T}T   1개","v":[[60.0,0],[90.0,-1.5]]},{"x":2459,"y":1785,"fs":14,"an":"start","bw":156,"bh":21,"col":"ink2","tpl":"{0} × {1} × {T}T   1개","v":[[126.0,0],[280.0,0]]},{"x":2811,"y":1785,"fs":14,"an":"start","bw":156,"bh":21,"col":"ink2","tpl":"{0} × {1} × {T}T   1개","v":[[100.0,0],[200.0,0]]}]},"b2":{"w":3600,"h":2032,"nums":[{"x":364.0,"y":906.6,"r":0,"fs":19,"bw":32,"bh":27,"a":86.0,"b":-2.0},{"x":494.5,"y":906.6,"r":0,"fs":19,"bw":32,"bh":27,"a":40.0,"b":2.0},{"x":815.7,"y":906.6,"r":0,"fs":19,"bw":43,"bh":27,"a":240.0,"b":0.0},{"x":1157.6,"y":906.6,"r":0,"fs":19,"bw":32,"bh":27,"a":60.0,"b":2.0},{"x":1261.2,"y":941.5,"r":0,"fs":19,"bw":32,"bh":27,"a":40.0,"b":-2.0},{"x":788.8,"y":970.6,"r":0,"fs":19,"bw":43,"bh":27,"a":466.0,"b":0.0},{"x":815.7,"y":226.4,"r":0,"fs":19,"bw":43,"bh":27,"a":240.0,"b":0.0},{"x":240.4,"y":747.8,"r":-90,"fs":19,"bw":29,"bh":41,"a":120.0,"b":0},{"x":172.4,"y":633.9,"r":-90,"fs":19,"bw":29,"bh":41,"a":230.0,"b":0.0},{"x":104.4,"y":582.1,"r":-90,"fs":19,"bw":29,"bh":41,"a":280.0,"b":0},{"x":1305.9,"y":768.5,"r":-90,"fs":19,"bw":29,"bh":41,"a":100.0,"b":0},{"x":1373.9,"y":664.9,"r":-90,"fs":19,"bw":29,"bh":41,"a":200.0,"b":0},{"x":1728.5,"y":874.5,"r":0,"fs":19,"bw":48,"bh":27,"a":20.0,"b":-0.5},{"x":1813.9,"y":839.6,"r":0,"fs":19,"bw":32,"bh":27,"a":70.0,"b":0.0},{"x":1902.0,"y":874.5,"r":0,"fs":19,"bw":32,"bh":27,"a":0.0,"b":1.0},{"x":1990.1,"y":839.6,"r":0,"fs":19,"bw":32,"bh":27,"a":70.0,"b":0.0},{"x":2075.5,"y":874.5,"r":0,"fs":19,"bw":48,"bh":27,"a":20.0,"b":-0.5},{"x":1731.1,"y":938.5,"r":0,"fs":19,"bw":32,"bh":27,"a":0.0,"b":1.0},{"x":1902.0,"y":903.6,"r":0,"fs":19,"bw":43,"bh":27,"a":180.0,"b":-2.0},{"x":2072.9,"y":938.5,"r":0,"fs":19,"bw":32,"bh":27,"a":0.0,"b":1.0},{"x":1902.0,"y":967.6,"r":0,"fs":19,"bw":43,"bh":27,"a":180.0,"b":0.0},{"x":1646.1,"y":789.6,"r":-90,"fs":19,"bw":29,"bh":30,"a":0.0,"b":1.0},{"x":1649.9,"y":566.9,"r":-90,"fs":19,"bw":29,"bh":41,"a":230.0,"b":-2.0},{"x":1646.1,"y":344.1,"r":-90,"fs":19,"bw":29,"bh":30,"a":0.0,"b":1.0},{"x":1581.9,"y":566.9,"r":-90,"fs":19,"bw":29,"bh":41,"a":230.0,"b":0.0},{"x":1513.9,"y":515.1,"r":-90,"fs":19,"bw":29,"bh":41,"a":280.0,"b":0},{"x":2122.9,"y":680.8,"r":-90,"fs":19,"bw":29,"bh":41,"a":120.0,"b":0},{"x":2974.2,"y":500.3,"r":0,"fs":18,"bw":40,"bh":26,"a":120.0,"b":0.0},{"x":3111.7,"y":515.1,"r":-90,"fs":18,"bw":28,"bh":28,"a":45.0,"b":0.0},{"x":2787.7,"y":736.0,"r":0,"fs":19,"bw":32,"bh":27,"a":60.0,"b":0.0},{"x":2974.2,"y":736.0,"r":0,"fs":19,"bw":43,"bh":27,"a":120.0,"b":0.0},{"x":3160.6,"y":736.0,"r":0,"fs":19,"bw":32,"bh":27,"a":60.0,"b":0.0},{"x":2595.0,"y":800.0,"r":0,"fs":19,"bw":43,"bh":27,"a":126.0,"b":0},{"x":2974.2,"y":800.0,"r":0,"fs":19,"bw":43,"bh":27,"a":240.0,"b":0.0},{"x":3326.4,"y":800.0,"r":0,"fs":19,"bw":43,"bh":27,"a":100.0,"b":0.0},{"x":2947.2,"y":864.0,"r":0,"fs":19,"bw":43,"bh":27,"a":466.0,"b":0.0},{"x":2398.9,"y":398.5,"r":-90,"fs":19,"bw":29,"bh":46,"a":67.5,"b":0.0},{"x":2398.9,"y":515.1,"r":-90,"fs":19,"bw":29,"bh":30,"a":45.0,"b":0.0},{"x":2398.9,"y":631.6,"r":-90,"fs":19,"bw":29,"bh":46,"a":67.5,"b":0.0},{"x":2327.1,"y":341.5,"r":-90,"fs":19,"bw":29,"bh":46,"a":20.0,"b":-0.5},{"x":2330.9,"y":427.0,"r":-90,"fs":19,"bw":29,"bh":30,"a":70.0,"b":0.0},{"x":2327.1,"y":515.1,"r":-90,"fs":19,"bw":29,"bh":30,"a":0.0,"b":1.0},{"x":2330.9,"y":603.1,"r":-90,"fs":19,"bw":29,"bh":30,"a":70.0,"b":0.0},{"x":2327.1,"y":688.6,"r":-90,"fs":19,"bw":29,"bh":46,"a":20.0,"b":-0.5},{"x":2262.9,"y":515.1,"r":-90,"fs":19,"bw":29,"bh":41,"a":180.0,"b":0.0},{"x":3464.4,"y":414.1,"r":-90,"fs":19,"bw":29,"bh":46,"a":90.0,"b":-0.5},{"x":3499.4,"y":515.1,"r":-90,"fs":19,"bw":29,"bh":30,"a":0.0,"b":1.0},{"x":3464.4,"y":616.1,"r":-90,"fs":19,"bw":29,"bh":46,"a":90.0,"b":-0.5},{"x":1179.5,"y":1832.7,"r":0,"fs":19,"bw":32,"bh":27,"a":86.0,"b":-2.0},{"x":1049.0,"y":1832.7,"r":0,"fs":19,"bw":32,"bh":27,"a":40.0,"b":2.0},{"x":727.8,"y":1832.7,"r":0,"fs":19,"bw":43,"bh":27,"a":240.0,"b":0.0},{"x":386.0,"y":1832.7,"r":0,"fs":19,"bw":32,"bh":27,"a":60.0,"b":2.0},{"x":282.4,"y":1867.7,"r":0,"fs":19,"bw":32,"bh":27,"a":40.0,"b":-2.0},{"x":754.8,"y":1896.7,"r":0,"fs":19,"bw":43,"bh":27,"a":466.0,"b":0.0},{"x":727.8,"y":1152.6,"r":0,"fs":19,"bw":43,"bh":27,"a":240.0,"b":0.0},{"x":206.4,"y":1694.7,"r":-90,"fs":19,"bw":29,"bh":41,"a":100.0,"b":0},{"x":138.4,"y":1591.1,"r":-90,"fs":19,"bw":29,"bh":41,"a":200.0,"b":0},{"x":1271.9,"y":1674.0,"r":-90,"fs":19,"bw":29,"bh":41,"a":120.0,"b":0},{"x":1339.9,"y":1508.2,"r":-90,"fs":19,"bw":29,"bh":41,"a":280.0,"b":0},{"x":1935.0,"y":1797.7,"r":0,"fs":19,"bw":48,"bh":27,"a":90.0,"b":-0.5},{"x":1834.0,"y":1832.7,"r":0,"fs":19,"bw":32,"bh":27,"a":0.0,"b":1.0},{"x":1733.0,"y":1797.7,"r":0,"fs":19,"bw":48,"bh":27,"a":90.0,"b":-0.5},{"x":1834.0,"y":1861.7,"r":0,"fs":19,"bw":43,"bh":27,"a":180.0,"b":0.0},{"x":1578.1,"y":1747.7,"r":-90,"fs":19,"bw":29,"bh":30,"a":0.0,"b":1.0},{"x":1581.9,"y":1525.0,"r":-90,"fs":19,"bw":29,"bh":41,"a":230.0,"b":-2.0},{"x":1578.1,"y":1302.3,"r":-90,"fs":19,"bw":29,"bh":30,"a":0.0,"b":1.0},{"x":1513.9,"y":1525.0,"r":-90,"fs":19,"bw":29,"bh":41,"a":230.0,"b":0.0},{"x":2054.9,"y":1659.7,"r":-90,"fs":19,"bw":29,"bh":41,"a":100.0,"b":0},{"x":2122.9,"y":1556.1,"r":-90,"fs":19,"bw":29,"bh":41,"a":200.0,"b":0},{"x":2561.0,"y":1694.1,"r":0,"fs":19,"bw":43,"bh":27,"a":126.0,"b":0},{"x":2940.2,"y":1694.1,"r":0,"fs":19,"bw":43,"bh":27,"a":240.0,"b":0.0},{"x":3292.4,"y":1694.1,"r":0,"fs":19,"bw":43,"bh":27,"a":100.0,"b":0.0},{"x":2913.2,"y":1758.1,"r":0,"fs":19,"bw":43,"bh":27,"a":466.0,"b":0.0},{"x":2361.1,"y":1646.7,"r":-90,"fs":19,"bw":29,"bh":46,"a":20.0,"b":-0.5},{"x":2364.9,"y":1561.3,"r":-90,"fs":19,"bw":29,"bh":30,"a":70.0,"b":0.0},{"x":2361.1,"y":1473.2,"r":-90,"fs":19,"bw":29,"bh":30,"a":0.0,"b":1.0},{"x":2364.9,"y":1385.2,"r":-90,"fs":19,"bw":29,"bh":30,"a":70.0,"b":0.0},{"x":2361.1,"y":1299.7,"r":-90,"fs":19,"bw":29,"bh":46,"a":20.0,"b":-0.5},{"x":2296.9,"y":1473.2,"r":-90,"fs":19,"bw":29,"bh":41,"a":180.0,"b":0.0},{"x":3430.4,"y":1574.2,"r":-90,"fs":19,"bw":29,"bh":46,"a":90.0,"b":-0.5},{"x":3465.4,"y":1473.2,"r":-90,"fs":19,"bw":29,"bh":30,"a":0.0,"b":1.0},{"x":3430.4,"y":1372.2,"r":-90,"fs":19,"bw":29,"bh":46,"a":90.0,"b":-0.5}],"texts":[]}};
 
 var BASE = 15;                       /* 그림을 그린 두께 */
 var img=document.getElementById("img"), stage=document.getElementById("stage"),

diff --git a/index.html b/index.html
@@ -395,27 +395,42 @@ function modelB(){
   //      묶음               번호  x            안쪽 판쪽 바깥  z     이름          뒤집기
   caddy("필기도구함 (앞)",  11, -(40+2*T), 40, 120, 100, PZ+T, "필기도구함", false);
   caddy("필기도구함 (뒤)",  24, -(40+2*T), 40, 120, 100, m,    "필기도구함", true);
-  caddy("포스트잇함 (앞)",   7,  W,        60, 100,  60, PZ+T, "포스트잇함", false);
-  caddy("포스트잇함 (뒤)",  20,  W,        60, 100,  60, m,    "포스트잇함", true);
+
+  /* 꼬리 쪽은 가운데를 막지 않고 한 칸으로 튼다 (포스트잇을 넣고 빼기 쉽게).
+     뒤쪽 함을 없애고 앞쪽 하나가 꼬리판부터 본체 앞면까지 다 쓴다.
+     꼬리판은 제자리(가운데)에 그대로 두고 함의 뒷벽 노릇을 한다 —
+     뒤로 보내면 본체에 가려서 안 보인다. 깊이 = (180-T)/2 */
+  (function(){
+    var inner=60, hBack=100, hFront=60, x0=W, xw=inner+2*T, z0=PZ+T, L=D-z0;
+    p({id:7, g:"포스트잇함", n:"포스트잇함 옆판", q:2,
+       x:x0,      y:0, z:z0, w:T, h:hBack, d:L, curve:[hBack,hFront]});
+    p({id:7, g:"포스트잇함", n:"포스트잇함 옆판", q:0,
+       x:x0+xw-T, y:0, z:z0, w:T, h:hBack, d:L, curve:[hBack,hFront]});
+    p({id:8, g:"포스트잇함", n:"포스트잇함 앞판", q:1,
+       x:x0+T, y:0, z:D-T, w:inner, h:hFront, d:T, sub:"낮은 벽 · 바깥을 본다"});
+    p({id:9, g:"포스트잇함", n:"포스트잇함 바닥판", q:1,
+       x:x0+T, y:0, z:z0, w:inner, h:T, d:L-T});
+  })();
 
   /* 닭 앞부분 · 꼬리 : 직접 그린 도형 그대로. 함 둘 사이에 선다 */
   p({id:13,g:"닭 앞부분", n:"닭 앞부분", q:1,
      x:-126, y:0, z:PZ, w:126, h:280, d:T, drawn:"head",
      sub:"볏·부리·턱벼슬 한 몸"});
   p({id:14,g:"꼬리", n:"꼬리", q:1,
-     x:W, y:0, z:PZ, w:100, h:200, d:T, drawn:"tail"});
+     x:W, y:0, z:PZ, w:100, h:200, d:T, drawn:"tail",
+     sub:"포스트잇함 뒷벽을 겸한다"});
 
   return { key:"B", title:"닭 이야기상자", parts:P, W:W, H:H, D:D,
     dims:[["본체 가로",W],["본체 높이",H],["본체 깊이",D]],
     span:[-126, Math.max(W+100, W+60+2*T)], top:280,
     groups:{ "프레임":[0,0,0,0], "뚜껑":[0,1,0,125],
              "필기도구함 (앞)":[-1,0,0.5,150], "필기도구함 (뒤)":[-1,0,-0.5,150],
-             "포스트잇함 (앞)":[1,0,0.5,150],  "포스트잇함 (뒤)":[1,0,-0.5,150],
+             "포스트잇함":[1,0,0,150],
              "닭 앞부분":[-0.75,0.3,0,170], "꼬리":[0.75,0.3,0,170] },
     asks:
          "<p class='note'><b>볏·부리를 칠하나요?</b> 지금은 한 판이라 나무색 그대로입니다. 칠하면 손그림처럼 됩니다.</p>"+
          "<p class='note'><b>포스트잇은 소형(51×38) 기준</b>입니다. 함 안쪽이 60×55라 일반(76×76)은 안 들어갑니다.</p>"+
-         "<p class='note'><b>닭·꼬리를 본체에 붙이는 방법</b> — 옆면에 맞대어 붙이면 붙는 면이 좁아 위가 흔들릴 수 있습니다. 공방에 보강 방법을 물어보세요.</p>" };
+         "<p class='note'><b>닭 앞부분을 붙이는 방법</b> — 옆면에 맞대어 붙이면 붙는 면이 좁아 위가 흔들릴 수 있습니다. 공방에 보강 방법을 물어보세요. 꼬리는 포스트잇함 뒷판과 넓은 면으로 맞물려 이 걱정이 없습니다.</p>" };
 }
 
 var MODELS = {A:modelA(), B:modelB()};
